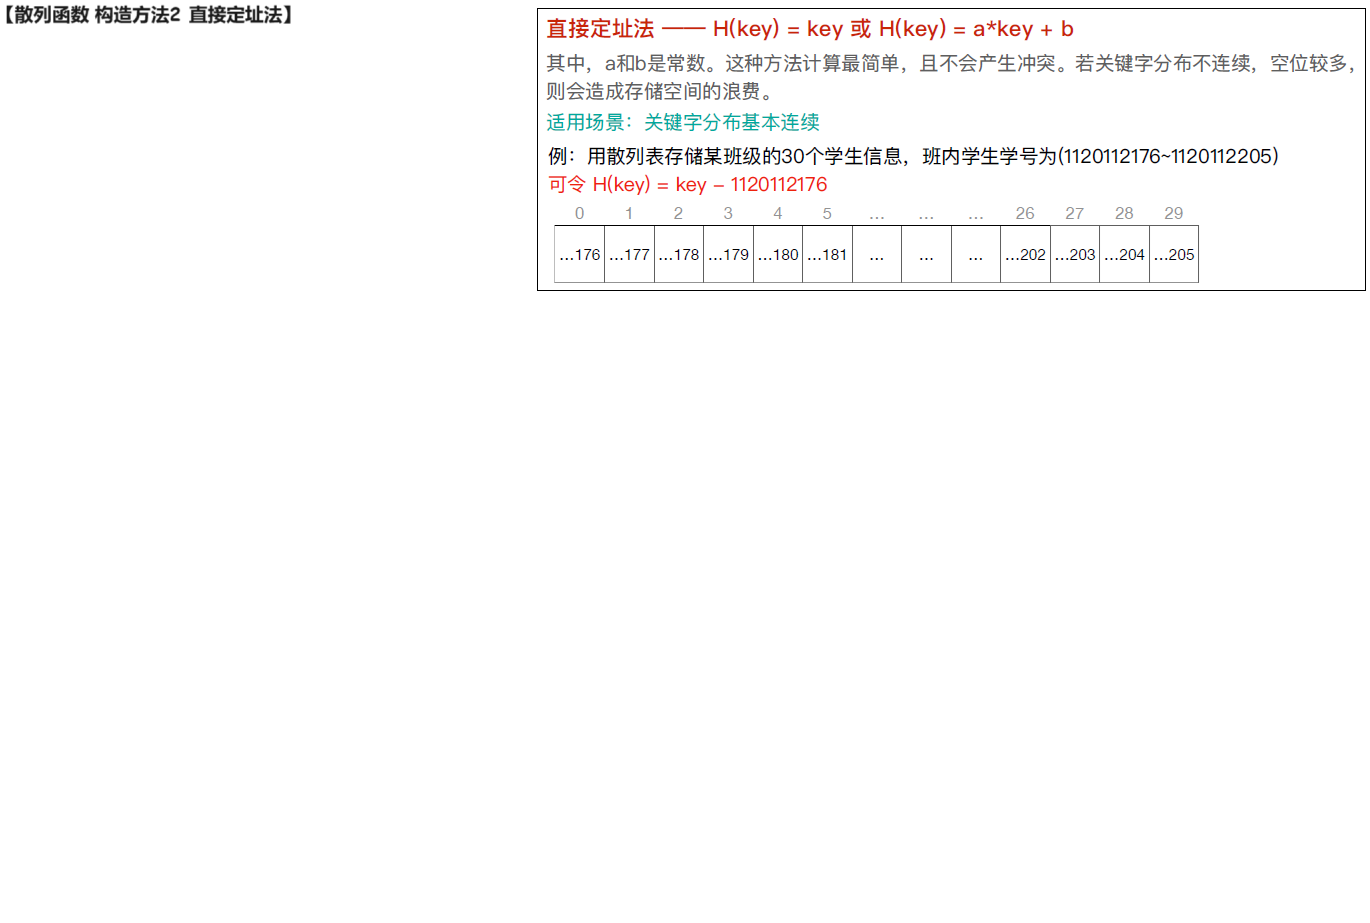
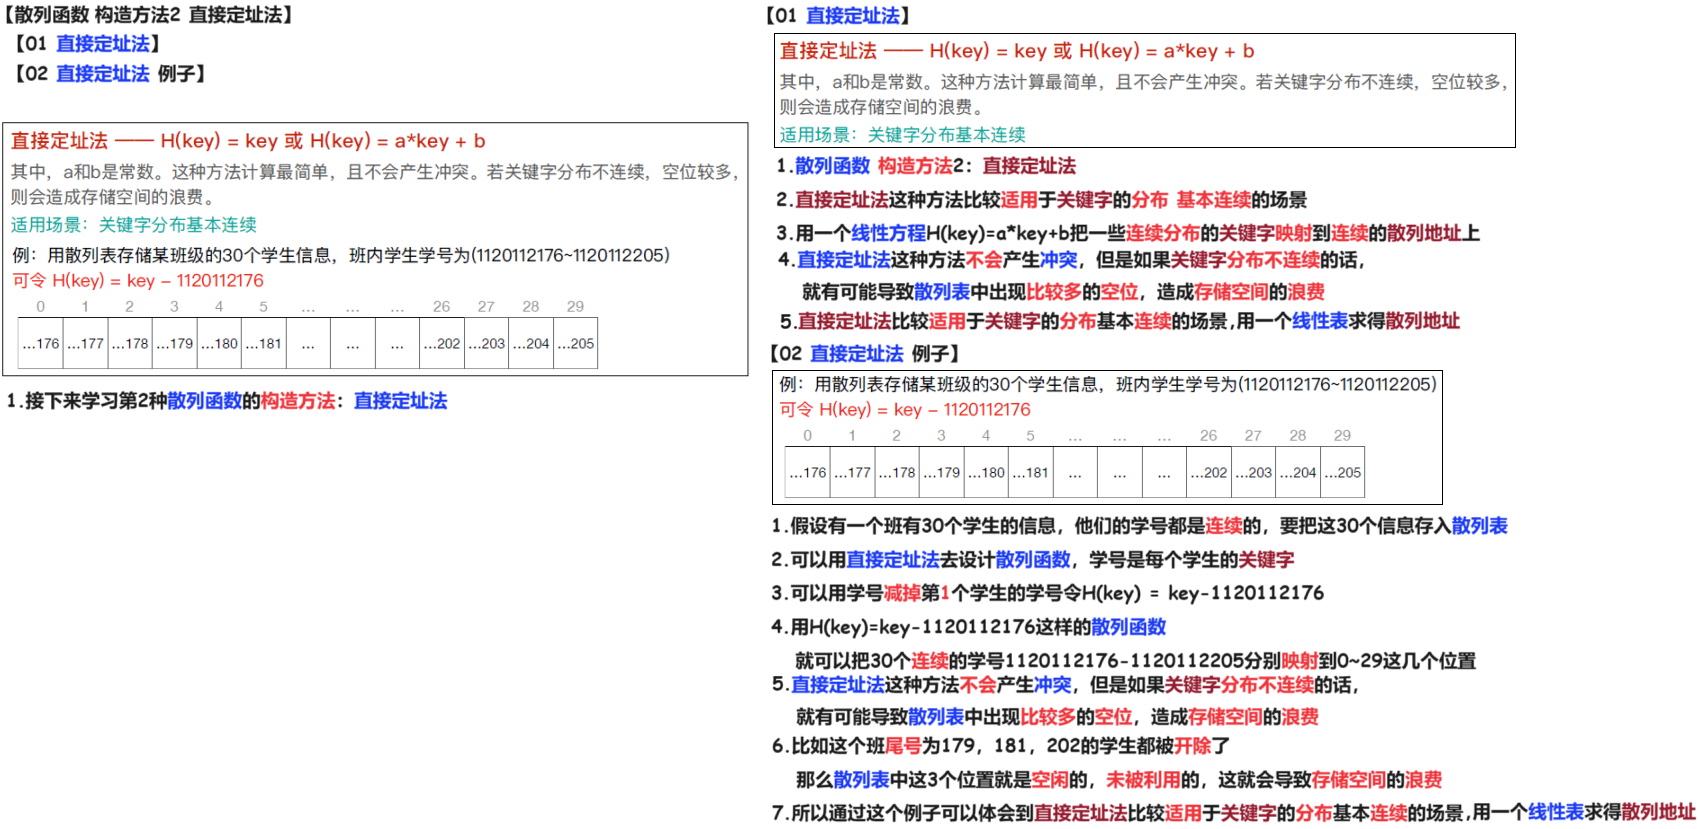
240327

Changed region(s): [[0.0, 0.0, 1.0, 0.9952], [0.0, 0.0, 0.2146, 0.1206], [0.2453, 0.3619, 0.3679, 0.4222]]

diff --git a/01 初试/02 DS/02 知识点/01 王道基础/07 第七章 查找/05 散列表/02 散列函数 构造 240327/02 Doc.md b/01 初试/02 DS/02 知识点/01 王道基础/07 第七章 查找/05 散列表/02 散列函数 构造 240327/02 Doc.md
@@ -17,3 +17,7 @@
 <img src="https://cvp.oss-cn-shanghai.aliyuncs.com/picgo/202403270946477.png" alt="image-20240327094628233" style="zoom:50%;" />
 
 # 04 散列函数 构造方法2 直接定址法
+
+<img src="https://cvp.oss-cn-shanghai.aliyuncs.com/picgo/202403271028531.png" alt="image-20240327102835408" style="zoom:50%;" />
+
+# 05 散列函数 构造方法3 
